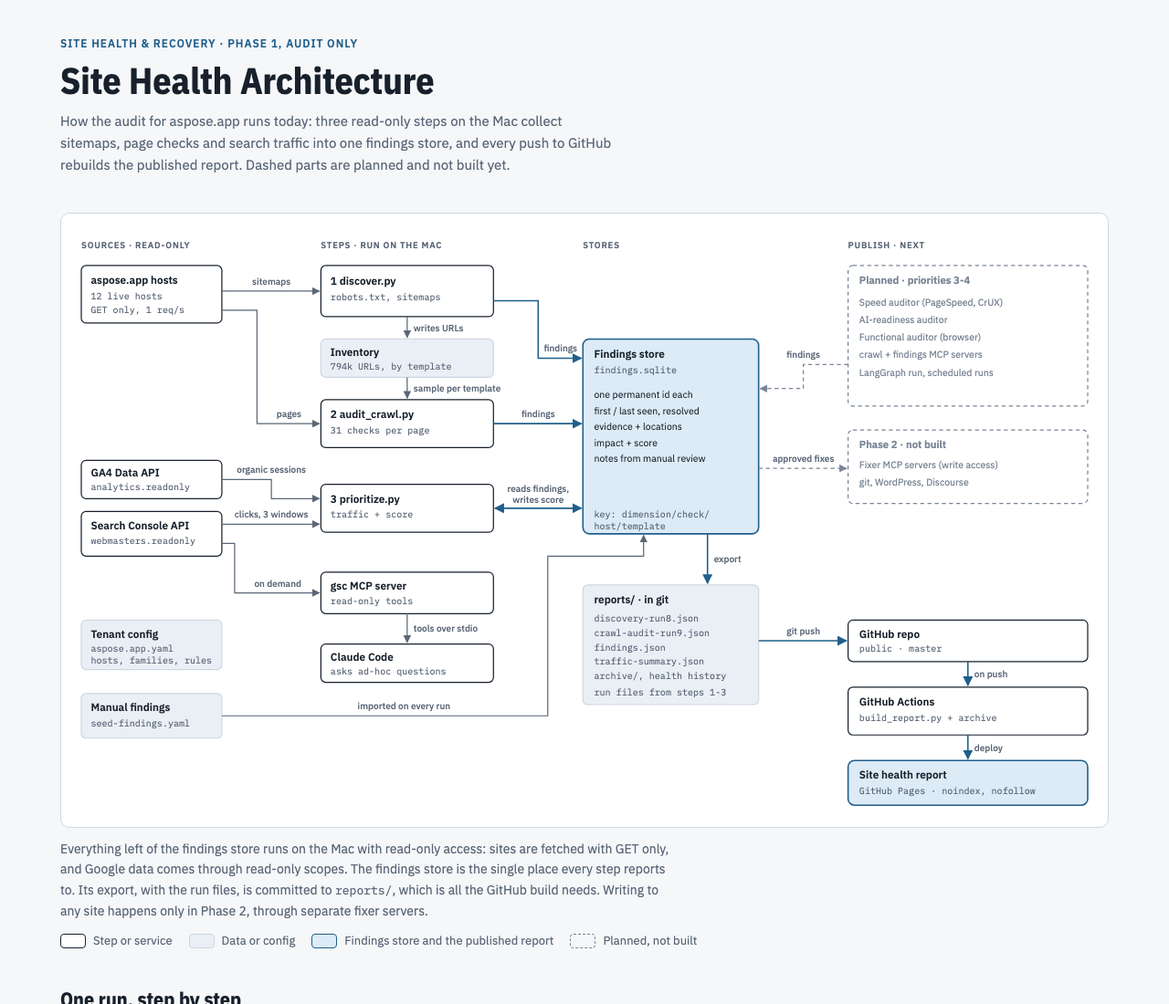
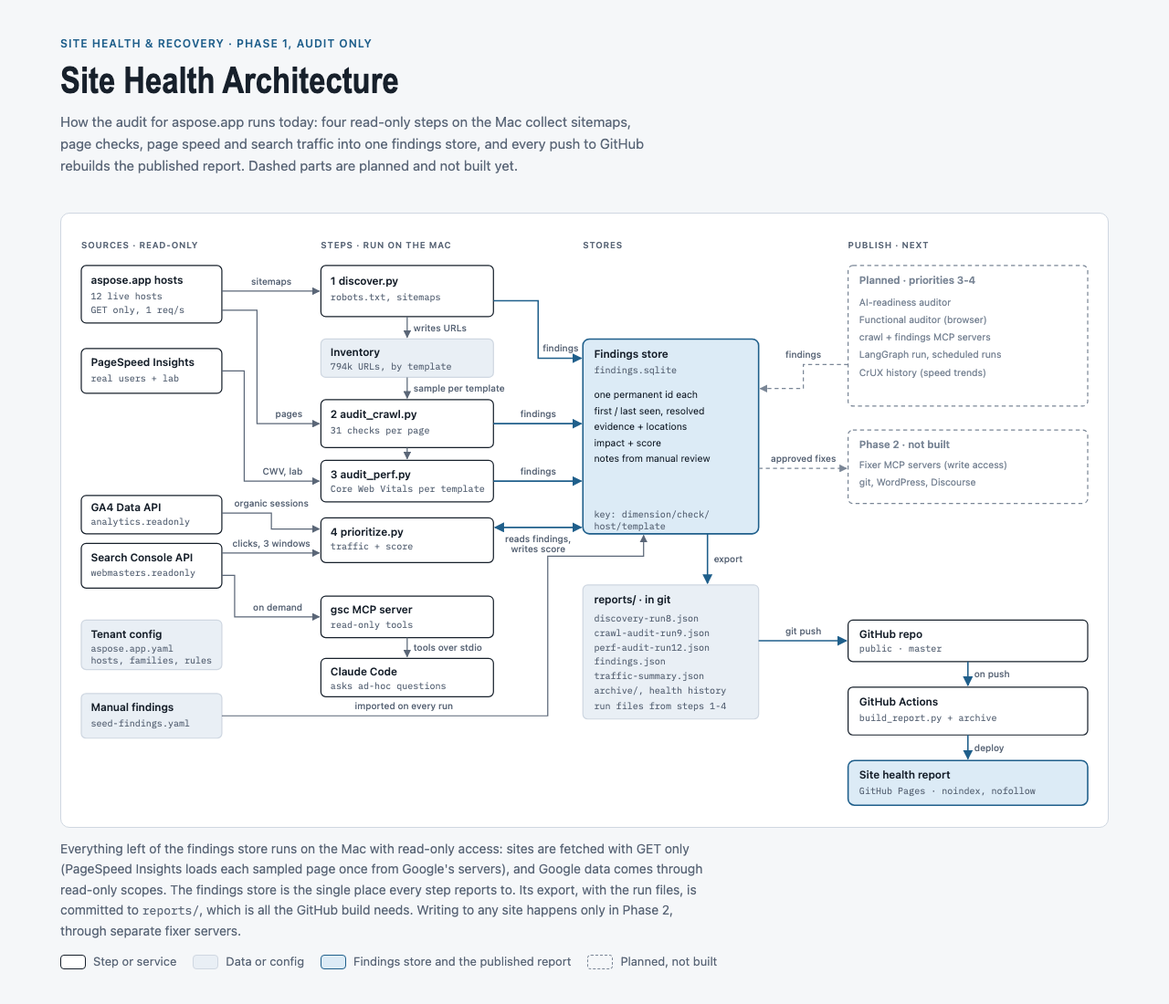
Docs: speed auditor in the handoff and the architecture diagram
CLAUDE.md: speed auditor status, run 12 results, the rule to archive the live
report before replacing it, parked tenant-2 and Pages rename notes. Diagram:
PageSpeed Insights source, audit_perf.py as step 3, run table renumbered.

Assisted by Claude Code

diff --git a/docs/architecture/site-health-architecture.html b/docs/architecture/site-health-architecture.html
@@ -87,12 +87,12 @@ td.step { font: 700 18px var(--display); color: var(--accent); width: 40px }
   <header>
     <div class="eyebrow">Site Health &amp; Recovery · Phase 1, audit only</div>
     <h1>Site Health Architecture</h1>
-    <p class="lede">How the audit for aspose.app runs today: three read-only steps on the Mac collect sitemaps, page checks and search traffic into one findings store, and every push to GitHub rebuilds the published report. Dashed parts are planned and not built yet.</p>
+    <p class="lede">How the audit for aspose.app runs today: four read-only steps on the Mac collect sitemaps, page checks, page speed and search traffic into one findings store, and every push to GitHub rebuilds the published report. Dashed parts are planned and not built yet.</p>
   </header>
 
   <figure>
     <div class="scroll">
-      <svg viewBox="0 0 1292 750" role="img" aria-label="Data flow: live sites, Search Console and GA4 feed three steps on the Mac (discover, crawl audit, prioritize); their findings go into one findings store, which is exported to the reports folder in git; a push to GitHub triggers GitHub Actions to rebuild and publish the site health report on GitHub Pages. Planned auditors and Phase 2 fixer servers are drawn dashed.">
+      <svg viewBox="0 0 1292 750" role="img" aria-label="Data flow: live sites, PageSpeed Insights, Search Console and GA4 feed four steps on the Mac (discover, crawl audit, speed audit, prioritize); their findings go into one findings store, which is exported to the reports folder in git; a push to GitHub triggers GitHub Actions to rebuild and publish the site health report on GitHub Pages. Planned auditors and Phase 2 fixer servers are drawn dashed.">
         <defs>
           <marker id="ah" viewBox="0 0 10 10" refX="9" refY="5" markerWidth="7" markerHeight="7" orient="auto-start-reverse"><path d="M0,0 L10,5 L0,10 z" class="d-head"/></marker>
           <marker id="ahk" viewBox="0 0 10 10" refX="9" refY="5" markerWidth="7" markerHeight="7" orient="auto-start-reverse"><path d="M0,0 L10,5 L0,10 z" class="d-head key"/></marker>
@@ -111,13 +111,17 @@ td.step { font: 700 18px var(--display); color: var(--accent); width: 40px }
         <text class="d-s" x="28" y="98">12 live hosts</text>
         <text class="d-s" x="28" y="115">GET only, 1 req/s</text>
 
-        <rect class="d-box" x="16" y="300" width="176" height="48" rx="6"/>
-        <text class="d-t" x="28" y="320">GA4 Data API</text>
-        <text class="d-s" x="28" y="337">analytics.readonly</text>
+        <rect class="d-box" x="16" y="160" width="176" height="56" rx="6"/>
+        <text class="d-t" x="28" y="182">PageSpeed Insights</text>
+        <text class="d-s" x="28" y="201">real users + lab</text>
 
-        <rect class="d-box" x="16" y="364" width="176" height="56" rx="6"/>
-        <text class="d-t" x="28" y="386">Search Console API</text>
-        <text class="d-s" x="28" y="405">webmasters.readonly</text>
+        <rect class="d-box" x="16" y="344" width="176" height="48" rx="6"/>
+        <text class="d-t" x="28" y="364">GA4 Data API</text>
+        <text class="d-s" x="28" y="381">analytics.readonly</text>
+
+        <rect class="d-box" x="16" y="404" width="176" height="56" rx="6"/>
+        <text class="d-t" x="28" y="426">Search Console API</text>
+        <text class="d-s" x="28" y="445">webmasters.readonly</text>
 
         <rect class="d-store" x="16" y="500" width="176" height="62" rx="6"/>
         <text class="d-t" x="28" y="522">Tenant config</text>
@@ -141,17 +145,21 @@ td.step { font: 700 18px var(--display); color: var(--accent); width: 40px }
         <text class="d-t" x="328" y="247">2  audit_crawl.py</text>
         <text class="d-s" x="328" y="266">31 checks per page</text>
 
-        <rect class="d-box" x="316" y="330" width="216" height="60" rx="6"/>
-        <text class="d-t" x="328" y="353">3  prioritize.py</text>
-        <text class="d-s" x="328" y="372">traffic + score</text>
+        <rect class="d-box" x="316" y="300" width="216" height="52" rx="6"/>
+        <text class="d-t" x="328" y="322">3  audit_perf.py</text>
+        <text class="d-s" x="328" y="340">Core Web Vitals per template</text>
 
-        <rect class="d-box" x="316" y="440" width="216" height="52" rx="6"/>
-        <text class="d-t" x="328" y="462">gsc MCP server</text>
-        <text class="d-s" x="328" y="480">read-only tools</text>
+        <rect class="d-box" x="316" y="372" width="216" height="56" rx="6"/>
+        <text class="d-t" x="328" y="394">4  prioritize.py</text>
+        <text class="d-s" x="328" y="412">traffic + score</text>
 
-        <rect class="d-box" x="316" y="530" width="216" height="48" rx="6"/>
-        <text class="d-t" x="328" y="551">Claude Code</text>
-        <text class="d-s" x="328" y="568">asks ad-hoc questions</text>
+        <rect class="d-box" x="316" y="470" width="216" height="52" rx="6"/>
+        <text class="d-t" x="328" y="492">gsc MCP server</text>
+        <text class="d-s" x="328" y="510">read-only tools</text>
+
+        <rect class="d-box" x="316" y="548" width="216" height="48" rx="6"/>
+        <text class="d-t" x="328" y="569">Claude Code</text>
+        <text class="d-s" x="328" y="586">asks ad-hoc questions</text>
 
         <!-- stores -->
         <rect class="d-key" x="644" y="148" width="220" height="244" rx="8"/>
@@ -165,23 +173,24 @@ td.step { font: 700 18px var(--display); color: var(--accent); width: 40px }
         <text class="d-s" x="658" y="372">key: dimension/check/</text>
         <text class="d-s" x="658" y="386">host/template</text>
 
-        <rect class="d-store" x="644" y="456" width="220" height="150" rx="6"/>
+        <rect class="d-store" x="644" y="456" width="220" height="168" rx="6"/>
         <text class="d-t" x="658" y="479">reports/ · in git</text>
         <text class="d-s" x="658" y="502">discovery-run8.json</text>
         <text class="d-s" x="658" y="520">crawl-audit-run9.json</text>
-        <text class="d-s" x="658" y="538">findings.json</text>
-        <text class="d-s" x="658" y="556">traffic-summary.json</text>
-        <text class="d-s" x="658" y="574">archive/, health history</text>
-        <text class="d-s" x="658" y="594">run files from steps 1-3</text>
+        <text class="d-s" x="658" y="538">perf-audit-run12.json</text>
+        <text class="d-s" x="658" y="556">findings.json</text>
+        <text class="d-s" x="658" y="574">traffic-summary.json</text>
+        <text class="d-s" x="658" y="592">archive/, health history</text>
+        <text class="d-s" x="658" y="612">run files from steps 1-4</text>
 
         <!-- planned and phase 2 -->
         <rect class="d-plan" x="976" y="56" width="300" height="176" rx="6"/>
         <text class="d-pt" x="990" y="79">Planned · priorities 3-4</text>
-        <text class="d-ps" x="990" y="106">Speed auditor (PageSpeed, CrUX)</text>
-        <text class="d-ps" x="990" y="128">AI-readiness auditor</text>
-        <text class="d-ps" x="990" y="150">Functional auditor (browser)</text>
-        <text class="d-ps" x="990" y="172">crawl + findings MCP servers</text>
-        <text class="d-ps" x="990" y="194">LangGraph run, scheduled runs</text>
+        <text class="d-ps" x="990" y="106">AI-readiness auditor</text>
+        <text class="d-ps" x="990" y="128">Functional auditor (browser)</text>
+        <text class="d-ps" x="990" y="150">crawl + findings MCP servers</text>
+        <text class="d-ps" x="990" y="172">LangGraph run, scheduled runs</text>
+        <text class="d-ps" x="990" y="194">CrUX history (speed trends)</text>
 
         <rect class="d-plan" x="976" y="262" width="300" height="92" rx="6"/>
         <text class="d-pt" x="990" y="285">Phase 2 · not built</text>
@@ -208,31 +217,37 @@ td.step { font: 700 18px var(--display); color: var(--accent); width: 40px }
         <polyline class="d-a" points="192,112 236,112 236,254 314,254" marker-end="url(#ah)"/>
         <text class="d-lab" x="276" y="246" text-anchor="middle">pages</text>
 
-        <polyline class="d-a" points="192,324 254,324 254,348 314,348" marker-end="url(#ah)"/>
-        <text class="d-lab" x="254" y="316" text-anchor="middle">organic sessions</text>
+        <polyline class="d-a" points="192,188 220,188 220,326 314,326" marker-end="url(#ah)"/>
+        <text class="d-lab" x="268" y="318" text-anchor="middle">CWV, lab</text>
 
-        <line class="d-a" x1="192" y1="380" x2="314" y2="380" marker-end="url(#ah)"/>
-        <text class="d-lab" x="254" y="372" text-anchor="middle">clicks, 3 windows</text>
+        <polyline class="d-a" points="192,366 254,366 254,386 314,386" marker-end="url(#ah)"/>
+        <text class="d-lab" x="254" y="358" text-anchor="middle">organic sessions</text>
 
-        <polyline class="d-a" points="192,404 208,404 208,466 314,466" marker-end="url(#ah)"/>
-        <text class="d-lab" x="262" y="458" text-anchor="middle">on demand</text>
+        <line class="d-a" x1="192" y1="416" x2="314" y2="416" marker-end="url(#ah)"/>
+        <text class="d-lab" x="254" y="408" text-anchor="middle">clicks, 3 windows</text>
+
+        <polyline class="d-a" points="192,444 208,444 208,496 314,496" marker-end="url(#ah)"/>
+        <text class="d-lab" x="262" y="488" text-anchor="middle">on demand</text>
 
         <!-- arrows: within the steps column -->
         <line class="d-a" x1="424" y1="120" x2="424" y2="146" marker-end="url(#ah)"/>
         <text class="d-lab" x="432" y="138">writes URLs</text>
         <line class="d-a" x1="424" y1="196" x2="424" y2="222" marker-end="url(#ah)"/>
         <text class="d-lab" x="432" y="214">sample per template</text>
-        <line class="d-a" x1="424" y1="492" x2="424" y2="528" marker-end="url(#ah)"/>
-        <text class="d-lab" x="432" y="515">tools over stdio</text>
+        <line class="d-a" x1="424" y1="284" x2="424" y2="298" marker-end="url(#ah)"/>
+        <line class="d-a" x1="424" y1="522" x2="424" y2="546" marker-end="url(#ah)"/>
+        <text class="d-lab" x="432" y="538">tools over stdio</text>
 
         <!-- arrows: steps to findings store -->
         <polyline class="d-a key" points="532,100 588,100 588,172 642,172" marker-end="url(#ahk)"/>
         <text class="d-lab" x="616" y="164" text-anchor="middle">findings</text>
         <line class="d-a key" x1="532" y1="254" x2="642" y2="254" marker-end="url(#ahk)"/>
         <text class="d-lab" x="588" y="246" text-anchor="middle">findings</text>
-        <line class="d-a key" x1="534" y1="360" x2="642" y2="360" marker-start="url(#ahk)" marker-end="url(#ahk)"/>
-        <text class="d-lab" x="588" y="340" text-anchor="middle">reads findings,</text>
-        <text class="d-lab" x="588" y="353" text-anchor="middle">writes score</text>
+        <line class="d-a key" x1="532" y1="326" x2="642" y2="326" marker-end="url(#ahk)"/>
+        <text class="d-lab" x="588" y="318" text-anchor="middle">findings</text>
+        <line class="d-a key" x1="534" y1="384" x2="642" y2="384" marker-start="url(#ahk)" marker-end="url(#ahk)"/>
+        <text class="d-lab" x="588" y="402" text-anchor="middle">reads findings,</text>
+        <text class="d-lab" x="588" y="415" text-anchor="middle">writes score</text>
 
         <polyline class="d-a" points="192,620 600,620 600,420 720,420 720,394" marker-end="url(#ah)"/>
         <text class="d-lab" x="420" y="612" text-anchor="middle">imported on every run</text>
@@ -254,7 +269,7 @@ td.step { font: 700 18px var(--display); color: var(--accent); width: 40px }
         <text class="d-lab" x="920" y="302" text-anchor="middle">approved fixes</text>
       </svg>
     </div>
-    <figcaption>Everything left of the findings store runs on the Mac with read-only access: sites are fetched with GET only, and Google data comes through read-only scopes. The findings store is the single place every step reports to. Its export, with the run files, is committed to <code>reports/</code>, which is all the GitHub build needs. Writing to any site happens only in Phase 2, through separate fixer servers.</figcaption>
+    <figcaption>Everything left of the findings store runs on the Mac with read-only access: sites are fetched with GET only (PageSpeed Insights loads each sampled page once from Google's servers), and Google data comes through read-only scopes. The findings store is the single place every step reports to. Its export, with the run files, is committed to <code>reports/</code>, which is all the GitHub build needs. Writing to any site happens only in Phase 2, through separate fixer servers.</figcaption>
     <div class="legend">
       <span><i class="sw"></i>Step or service</span>
       <span><i class="sw store"></i>Data or config</span>
@@ -271,9 +286,10 @@ td.step { font: 700 18px var(--display); color: var(--accent); width: 40px }
         <tbody>
           <tr><td class="step">1</td><td><code>python scripts/discover.py</code></td><td>robots.txt and every sitemap on the 12 hosts</td><td>URL inventory (<code>data/inventory.sqlite</code>), sitemap findings, <code>reports/discovery-runN.json</code></td><td>15 min</td></tr>
           <tr><td class="step">2</td><td><code>python scripts/audit_crawl.py</code></td><td>the inventory (2 English + 2 translated pages per template), each host's homepage, family hubs; top Search Console pages for families with no sitemap</td><td>page checks (<code>data/audit.sqlite</code>), page findings with evidence locations, <code>reports/crawl-audit-runN.json</code></td><td>25 min</td></tr>
-          <tr><td class="step">3</td><td><code>python scripts/prioritize.py</code></td><td>Search Console page clicks (now, previous 28 days, six months ago), GA4 organic sessions for hosts without Search Console</td><td>impact, traffic lost since six months ago and score on every finding, <code>reports/findings.json</code>, <code>reports/traffic-summary.json</code></td><td>1 min</td></tr>
-          <tr><td class="step">4</td><td><code>python scripts/build_report.py --snapshot "…"</code></td><td>the run files, findings and traffic summary</td><td>the local report, a frozen copy in <code>reports/archive/</code>, family health in <code>reports/health-history.json</code></td><td>seconds</td></tr>
-          <tr><td class="step">5</td><td><code>git push github master</code></td><td>the committed <code>reports/</code> files</td><td>GitHub Actions rebuilds the report (summary, families, priorities, shared problems, findings, changes, fix guide) and publishes it with the archive</td><td>1 min</td></tr>
+          <tr><td class="step">3</td><td><code>python scripts/audit_perf.py</code></td><td>PageSpeed Insights for the 2 most-visited pages of each crawl-audit template (mobile): Core Web Vitals from real Chrome users (28 days, 75th percentile) and a Lighthouse lab run</td><td>speed findings (real-user LCP, INP, CLS, TTFB; pages that do not load or paint nothing; whole-host Core Web Vitals), <code>reports/perf-audit-runN.json</code></td><td>40 min</td></tr>
+          <tr><td class="step">4</td><td><code>python scripts/prioritize.py</code></td><td>Search Console page clicks (now, previous 28 days, six months ago), GA4 organic sessions for hosts without Search Console</td><td>impact, traffic lost since six months ago and score on every finding, <code>reports/findings.json</code>, <code>reports/traffic-summary.json</code></td><td>1 min</td></tr>
+          <tr><td class="step">5</td><td><code>python scripts/build_report.py --snapshot "…"</code></td><td>the run files, findings and traffic summary</td><td>the local report, a frozen copy in <code>reports/archive/</code>, family health in <code>reports/health-history.json</code></td><td>seconds</td></tr>
+          <tr><td class="step">6</td><td><code>git push github master</code></td><td>the committed <code>reports/</code> files</td><td>GitHub Actions rebuilds the report (summary, families, priorities, shared problems, findings, changes, fix guide) and publishes it with the archive</td><td>1 min</td></tr>
         </tbody>
       </table>
     </div>
@@ -292,8 +308,8 @@ td.step { font: 700 18px var(--display); color: var(--accent); width: 40px }
   <section>
     <h2>Code layout</h2>
     <div class="layout">
-      <div class="dir">core/</div><div>Deterministic logic: discovery, page audit, findings store, prioritizer, family scorecards, fix guide, report views (confidence, shared problems, top risks, changes), Google clients</div><div><span class="tag built">built</span></div>
-      <div class="dir">scripts/</div><div>The commands: discover, audit_crawl, prioritize, build_report, build_archive, findings, check_access</div><div><span class="tag built">built</span></div>
+      <div class="dir">core/</div><div>Deterministic logic: discovery, page audit, speed audit (PageSpeed Insights), findings store, prioritizer, family scorecards, fix guide, report views (confidence, shared problems, top risks, changes), Google clients</div><div><span class="tag built">built</span></div>
+      <div class="dir">scripts/</div><div>The commands: discover, audit_crawl, audit_perf, prioritize, build_report, build_archive, findings, check_access</div><div><span class="tag built">built</span></div>
       <div class="dir">mcp_servers/</div><div><code>gsc</code> is built; <code>crawl</code>, <code>findings</code>, <code>ga4</code>, <code>pagespeed</code> are next; fixers in Phase 2</div><div><span class="tag part">partly</span></div>
       <div class="dir">agents/</div><div>LangGraph agents that call the MCP servers: diagnosis, content checks, reporting</div><div><span class="tag planned">planned</span></div>
       <div class="dir">tenants/</div><div>One YAML per property, plus its manual findings</div><div><span class="tag built">built</span></div>

diff --git a/CLAUDE.md b/CLAUDE.md
@@ -10,20 +10,21 @@ Domain-agnostic agents that audit a web property, report what is broken, not opt
 
 ## Start here (session handoff, 2026-10-13)
 
-**State:** Phase 1 (audit only). Built and live: discovery, crawl auditor (31 checks), findings store, Prioritizer (GSC traffic + score, traffic lost), family scorecards (health A-F), the restructured report (summary, families, priorities, shared problems, findings, changes, fix guide, reference, method) and its archive. Next build: **priority 3, new auditors** (start with speed: PageSpeed/CrUX). Details: Status, then "Priority order agreed with SK" under Next steps.
+**State:** Phase 1 (audit only). Built and live: discovery, crawl auditor (31 checks), findings store, Prioritizer (GSC traffic + score, traffic lost), family scorecards (health A-F), the restructured report (summary, families, priorities, shared problems, findings, changes, fix guide, reference, method) and its archive. Priority 3 in progress: **speed auditor built and run 2026-10-15** (see Status); then ai and functional auditors. Details: Status, then "Priority order agreed with SK" under Next steps.
 
 **Live:**
 - Report (public, noindex): https://shoaibkhan-aspose.github.io/aspose-app-health-and-recovery/ (rebuilt by GitHub Actions on every push to `master`); archive of frozen versions: https://shoaibkhan-aspose.github.io/aspose-app-health-and-recovery/archive/
 - Architecture page (private): https://claude.ai/artifact/3zrEcbrV1WxN9nfjvS7Kxm, source `docs/architecture/site-health-architecture.html`
 - Older shared discovery report (private, not updated since run 7): https://claude.ai/artifact/MUUTzbXEymKq4tw5mmmPA5
 
-**Latest data:** discovery run 8 (2026-10-09), full crawl audit run 9 (652 pages, all 29 families + every host), traffic window 2026-09-09..10-06 (+ previous 28 days and six months ago). 311 open findings, all scored.
+**Latest data:** discovery run 8 (2026-10-09), full crawl audit run 9 (652 pages, all 29 families + every host), speed audit run 12 (2026-10-15, 353 pages), traffic window 2026-09-09..10-06 (+ previous 28 days and six months ago). 326 open findings, all scored.
 
 **Full cycle** (on the Mac, from the repo, `.venv` active):
 ```bash
 set -a; source .env; set +a
 python scripts/discover.py --quiet           # 15 min; inventory + sitemap findings
 python scripts/audit_crawl.py --quiet        # 25 min; all hosts + families (or --sections a,b)
+python scripts/audit_perf.py --quiet         # ~40 min; speed (PageSpeed Insights), 2 top-traffic pages per template
 python scripts/prioritize.py                 # traffic, scores, reports/findings.json, traffic-summary.json
 python scripts/build_report.py --out reports/discovery-latest.html --snapshot "After <what changed>"
 #   --snapshot freezes this report into reports/archive/ (served at /archive/<date>/) and records family health
@@ -36,6 +37,7 @@ git add -A && git commit -m "..." && git push github master   # Actions rebuilds
 - Commits: SK is the only author and committer. Credit Claude with a plain last line `Assisted by Claude Code` (SK, 2026-10-12; exactly this wording, no model name); **never a `Co-Authored-By: Claude` trailer** (GitHub would show Claude as co-author). Leave old commits as they are.
 - Commit at each logical step; push to `github` (GitLab `origin` mirrors GitHub).
 - Report changes apply to the **latest report only**; never regenerate older report pages or run JSONs.
+- **Archive before anything replaces the live report (SK, 2026-10-15: "store in archive whatever is necessary and don't forget it"):** before pushing a report whose structure or data changed, check `reports/archive/index.json`. If the version live on Pages is not archived yet, download it (`curl` the Pages URL into `reports/archive/<date>.html`, add an index entry "…, before <change>"; it equals a build of the last commit), then build the new report with `--snapshot "After <change>"`. Every version that was ever live must end up in the archive.
 - **Report wording names issues, never blames teams** (SK, 2026-10-13): no "worst", "failing", "weak"; the verdict names no family and shows totals ("2 families graded F and 6 graded D. Biggest risk: <issue> in 3 families and 1 host (13k clicks at stake)"); top risks list affected places alphabetically (or count them when more than 4). Priorities and findings stay per family (working lists for teams).
 - Discuss before building when SK asks a question ("discuss first", "do not implement").
 - Keep the architecture diagram in its current shape; update it when the architecture changes (see "Architecture diagram" below).
@@ -61,6 +63,8 @@ git add -A && git commit -m "..." && git push github master   # Actions rebuilds
 - Shared problems severity (SK asked 2026-10-13 which row is most severe): each row's label is the worst case in the group (canonical: really broken only on /cells/, incorrect in 8; sitemaps: broken on omr and drawing, gis is a leftover; page errors: broken in all 3). Offered: show the mix ("Broken in 1 · Incorrect in 8") and sort by families really broken, then clicks. Not answered.
 - Compare this report with the Aspose.ai Website Health page (https://aspose.github.io/aspose-ai-website-health/): SK asked 2026-10-13, then interrupted before an answer. Earlier notes on that page are under "Ideas from the Aspose.ai Website Health monitor".
 - Sample transparency (cells question, 2026-10-12): still open: (1) "Sample: N pages · L languages" on each card, clickable like Sitemap; (3) sample per tool, not only per template, for big families; (4) bigger samples for high-traffic families. (Confidence labels, idea 2, are built.)
+- Tenant 2 `blog.conholdate.cloud` (SK asked 2026-10-14, discussed, not started): core is ready; gaps are no GSC/GA4 access for the service account, report outputs are single-tenant (`reports/findings.json`, `traffic-summary.json`, aspose.app wording), blog needs `url_templates`/sample config, and the "standalone, not blog-team-tools" scope note. Plan offered: per-tenant subfolders on the same Pages site (one deploy builds all tenants). Open: separate vs combined report, other Conholdate blogs, Conholdate data public.
+- Pages URL rename (SK 2026-10-15: later): rename repo to e.g. `websites-health-and-recovery`, then a tiny repo with the old name whose `index.html` + `404.html` redirect (meta refresh + JS keeping path and hash) to the new URL; update the `github` remote, docs, archive and architecture links. Browser storage keys survive (same origin).
 - Queue after priority 4: re-check remaining seed findings (typo/spelling check on titles and H1s), LangGraph run, scheduled runs in GitHub Actions with a new/resolved digest, report to a private domain.
 
 ## Current phase: 1, AUDIT ONLY
@@ -180,6 +184,15 @@ Done:
 - **Family cards layout (2026-10-12):** Rows (default: one family per row, three zones identity / traffic / work, grade-colour left stripe; zones stack at <960px and <600px) or Grid (compact cards), switch remembered per viewer. Global `[hidden]{display:none!important}` in the template fixed closed sitemap panels showing as empty bars.
 
 - **Readable finding details (2026-10-12):** Observed shows the sample as a Template / Failed / Sampled table (worst first, `generic:` buckets as `/fam/…/…`) plus the estimate explained; findings without a sample list observations as bullets (split before each URL); Evidence shows short paths and "canonical →"; Impact is a labelled table (priority score, traffic at stake with the GSC window, severity, fix effort S/M/L spelled out). Effort meaning: S = one template or config change, M = several templates or translations, L = rebuild or migration.
+
+- **Speed auditor (2026-10-15, priority 3):** `core/pagespeed.py` (PSI v5 client: retries on 429/5xx; a Lighthouse "cannot load" answer raises `PageLoadError` (a result about the page), other failures `PageSpeedError` (not measured); `extract()` keeps URL field data (None when PSI falls back to origin), origin field data, lab score/metrics, top 3 Lighthouse savings), `core/audit/perf.py` (`select_pages`: per crawl-audit group the 2 pages with most GSC clicks from clean HTML 200 crawl pages + GSC pages of the same group; 353 pages / 206 groups / 11 hosts, `--plan` lists them), CLI `scripts/audit_perf.py` (mobile, 4 parallel, ~40 min with retries, report `reports/perf-audit-<date>-run<id>.json`, source `perf-audit`). Pages that fail are retried once at the end; only a second failure counts.
+  - Checks (dimension `perf`): `lcp/inp/cls_poor` (not_optimized), `lcp/inp/cls_needs_work` (improvable), `ttfb_poor` (not_optimized), `lab_load_failed` (broken: server error, timeout, not HTML, twice; scorecard group "page errors"), `lab_no_paint` (incorrect: page loads but paints nothing in Google's mobile test, twice; e.g. JS-only shells), host-level `origin_cwv_poor` / `origin_cwv_needs_work` (template `origin`, whole-scope in the prioritizer). Real-user checks use CrUX p75 over 28 days and Google's thresholds; pages without URL-level data count neither way. A run with >10% API errors (after retry) is `incomplete` and resolves nothing.
+  - **Lab score is information only (SK, 2026-10-15):** it moved by a median 4 and p90 19 points between two runs of the same pages, so "score below 50" findings flipped every run. It stays in finding notes ("lab 6.1 s, lab score 42; biggest savings: ...") and in the report's Reference table "Speed per host" (whole-host LCP/INP/CLS, pages, real-user coverage, not loaded, median lab score).
+  - Wiring: fix guide area "Speed", scorecard group `speed` (counts once per family, cosmetic cap applies), report label "Speed audit", method text, footer, run changes and health-history label. Tests in `tests/test_perf_audit.py`.
+  - **Auth:** PSI works with the service account (identity-only `openid` scope, allowed by `assert_readonly`); SK enabled the API in project `629629479690` on 2026-10-15. `PAGESPEED_API_KEY` in `.env` also works. The keyless quota is shared and exhausted. The CrUX API itself rejects service-account tokens (needs an API key); only needed later for CrUX history (trends).
+  - First findings (tuning runs 10-11, 2026-10-15): **ocr app pages fail** (8 of 8 sampled: HTTP 500 or ~22 s to first byte, confirmed with curl); websites `/fr/groupdocs/`-type pages paint nothing (JS shell); cells CLS 0.12-0.13 on 8 of 9 pages with data; barcode CLS > 0.25 and INP > 500 ms; gis LCP > 4 s; INP 200-500 ms on pdf, video, font, omr; dashboard host LCP 3.3 s. Whole-host data passes on products, www, about, purchase, websites, forum. Tuning runs were removed from the findings store (backup in the session scratchpad) before the first real run.
+  - **First real run: speed audit run 12 (2026-10-15):** 353 pages, 15 findings, scored with the cached traffic window (`prioritize.py --offline`). Top: barcode CLS > 0.25 (#35, score 40, 81k clicks) and INP > 500 ms; cells CLS 0.1-0.25 (202k clicks); gis LCP > 4 s (gis health 64 -> 58, C -> D). ocr loaded for Google in this run, but curl still got HTTP 500 on 2 of 3 ocr pages afterwards: **ocr is intermittently failing**; the next crawl audit (http_error) should confirm it. Report rebuilt with the Reference table "Speed per host"; archive now holds 2026-10-12, 2026-10-15 (restructured report, before the speed audit; downloaded from Pages, byte-identical to a build of the last commit) and 2026-10-15-2 (after the speed audit). Architecture diagram updated (step 3 audit_perf, PageSpeed source, steps renumbered 1-6 in the run table), PNG re-rendered, artifact republished (version 3).
+  - Still to do: consider a "Speed" status on family cards (discuss with SK).
 
 Not done yet:
 - GSC properties for www and forum (none exist or none shared; the service account sees only the 5 URL-prefix properties).
@@ -439,7 +452,7 @@ Context gathered before discovery existed. The issues in it are tracked in `tena
 **Priority order agreed with SK (2026-10-09):**
 1. ~~**Prioritizer**~~ Done 2026-10-09 (see Status).
 2. ~~**Crawl audit of the other 27 products families**~~ Done 2026-10-09 (runs 6-8, see Status).
-3. **New auditors**: perf (PageSpeed/CrUX), ai (llms.txt, AI bot access), functional (apps upload/convert/download).
+3. **New auditors**: perf (PageSpeed/CrUX; built and run 2026-10-15), ai (llms.txt, AI bot access), functional (apps upload/convert/download).
 4. **MCP servers**: `crawl`, `findings` (then `ga4`, `pagespeed`).
 
 **Ideas from the Aspose.ai Website Health monitor** (https://aspose.github.io/aspose-ai-website-health/, reviewed 2026-10-09). It is an ops/uptime monitor (7 hosts, availability, priority links, Playwright smoke + screenshots, daily/weekly digests, static `dashboard.json` + `app.js` on Pages), complementary to this SEO/GEO audit. Worth adopting:
